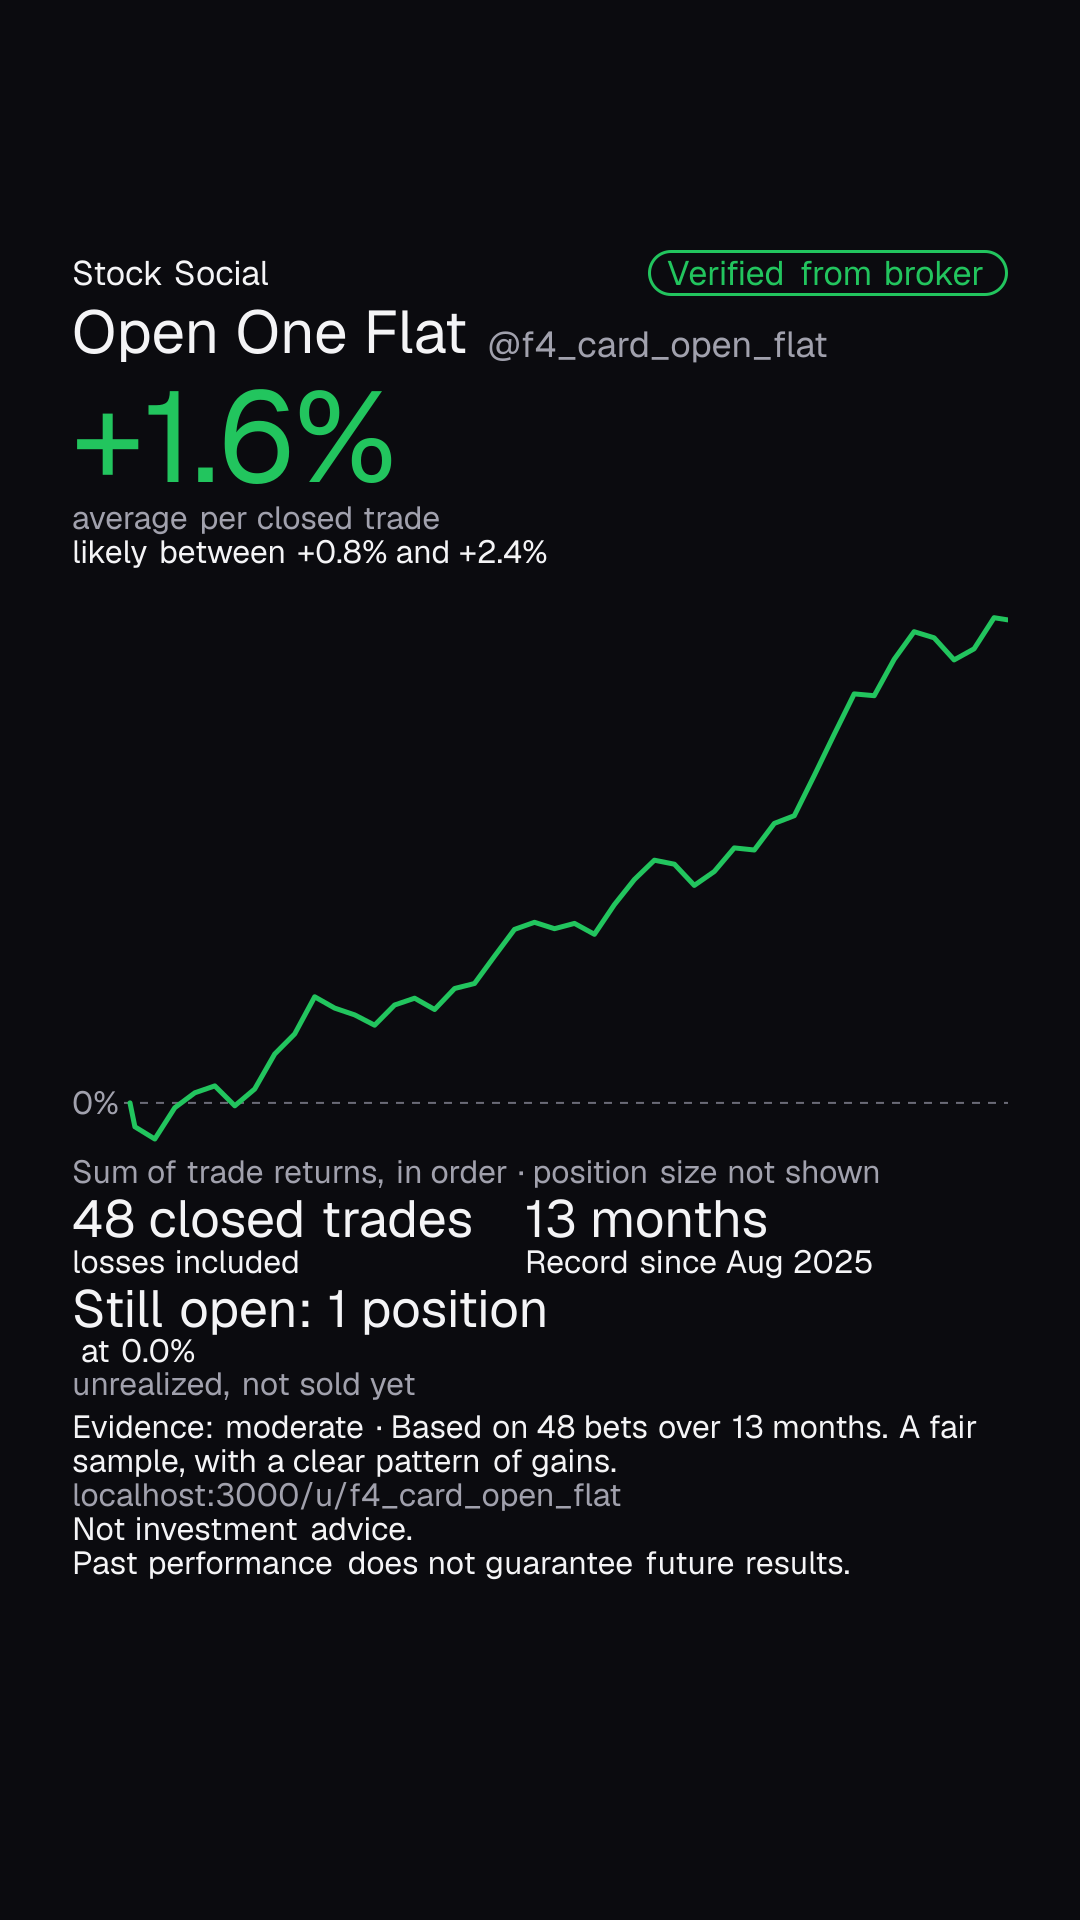
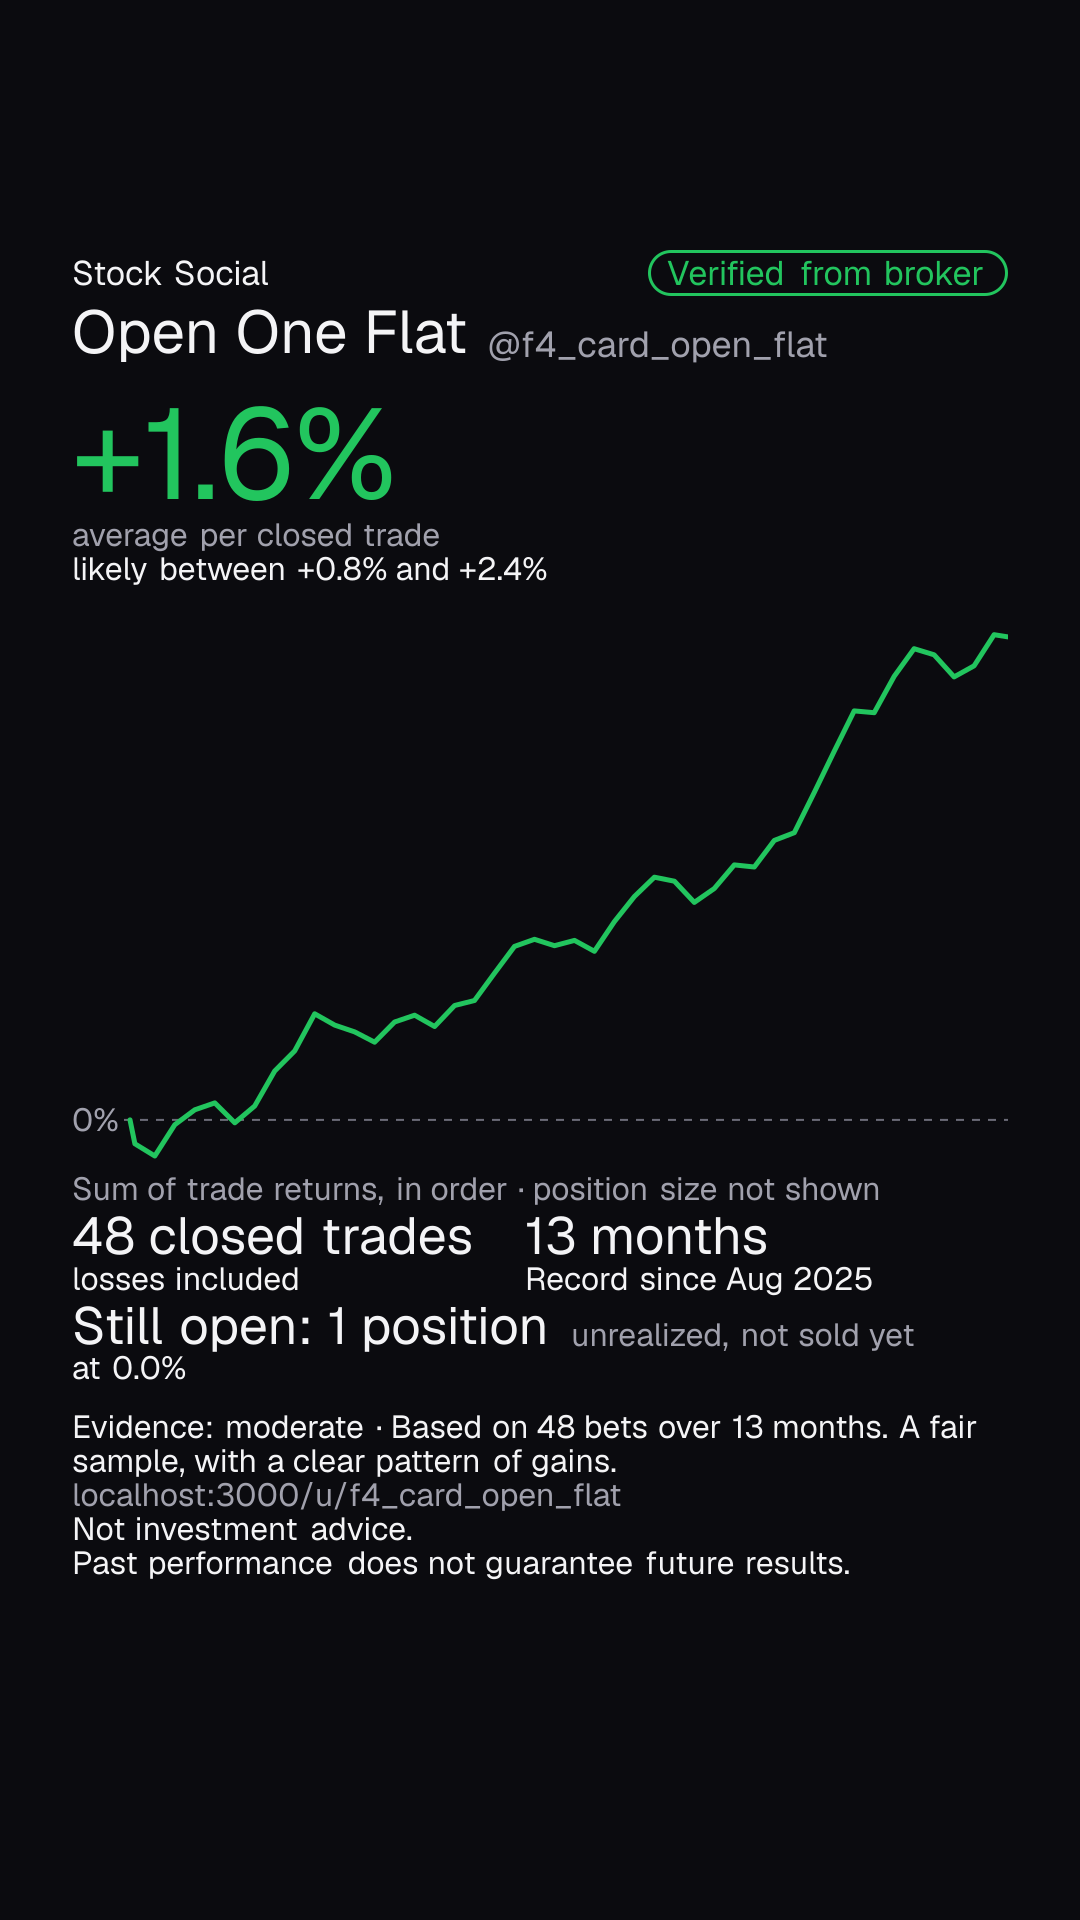
F-4: round-2 fixes (open block fits the worst case, handle-only names, unclamped width check) and records

diff --git a/app/u/[handle]/record-card-image.tsx b/app/u/[handle]/record-card-image.tsx
@@ -30,7 +30,8 @@ export function RecordCardImage({ m, disclaimer }: { m: CardModel; disclaimer: s
     <div style={{ ...row, alignItems: 'baseline', gap: 16, flex: 1, minWidth: 0, overflow: 'hidden' }}>
       {/* User test 2026-11-01: the @handle is the card's one unique identity (anyone can pick any display name), so it
           always shows in full; when the row is short only the display name gives way. */}
-      <span style={{ ...t(f.name), ...one, flexShrink: 1, minWidth: 0 }}>{m.name}</span>
+      {/* A trader with no display name shows the handle here: then it never truncates either (code review). */}
+      <span style={handleOnly ? { ...t(f.name), whiteSpace: 'nowrap', flexShrink: 0 } : { ...t(f.name), ...one, flexShrink: 1, minWidth: 0 }}>{m.name}</span>
       {!handleOnly && <span style={{ ...t(f.handle, C.muted), whiteSpace: 'nowrap', flexShrink: 0 }}>@{m.handle}</span>}
     </div>
   );
@@ -39,23 +40,33 @@ export function RecordCardImage({ m, disclaimer }: { m: CardModel; disclaimer: s
   const toneColor = (tone: 'up' | 'down' | 'flat') => (tone === 'up' ? C.up : tone === 'down' ? C.down : C.text);
   const lineColor = toneColor(m.headlineTone ?? 'flat'); // the line agrees with the headline it sums to
 
-  // F-6: "3 still open · 2 up, 1 down · lowest -8.0%, highest +12.1%", each percent in its own sign's color (the
+  // F-6: "3 open, unrealized · 2 up, 1 down · lowest -8.0%, highest +12.1%", each percent in its own sign's color (the
   // words carry the meaning; the color only repeats it). Never clipped: a held loser is never hidden.
   const o = m.open;
-  const spread = o && (o.low === o.high
-    ? [<span key="a" style={{ marginLeft: '0.28em' }}>at</span>, <span key="l" style={{ color: toneColor(o.lowTone), marginLeft: '0.28em' }}>{o.low}</span>]
-    : [<span key="a" style={{ marginLeft: '0.28em' }}>lowest</span>, <span key="l" style={{ color: toneColor(o.lowTone), marginLeft: '0.28em' }}>{o.low}</span>,
-      <span key="c">,</span>, <span key="b" style={{ marginLeft: '0.28em' }}>highest</span>, <span key="h" style={{ color: toneColor(o.highTone), marginLeft: '0.28em' }}>{o.high}</span>]);
-  const openRow = (size: number, short: boolean) => o && (
-    <div style={{ ...row, flexWrap: 'wrap', ...t(size), lineHeight: 1 }}>
-      <span>{[short ? o.shortTitle : '', o.split].filter(Boolean).join(' · ')}{short || o.split ? ' ·' : ''}</span>{spread}
-    </div>
-  );
+  // `lead`: whether words come before the spread on its row (no indent before "at 0.0%" when nothing does).
+  const gap = (on: boolean) => ({ marginLeft: on ? '0.28em' : 0 });
+  const spread = (lead: boolean) => o && (o.low === o.high
+    ? [<span key="a" style={gap(lead)}>at</span>, <span key="l" style={{ color: toneColor(o.lowTone), ...gap(true) }}>{o.low}</span>]
+    : [<span key="a" style={gap(lead)}>lowest</span>, <span key="l" style={{ color: toneColor(o.lowTone), ...gap(true) }}>{o.low}</span>,
+      <span key="c">,</span>, <span key="b" style={gap(true)}>highest</span>, <span key="h" style={{ color: toneColor(o.highTone), ...gap(true) }}>{o.high}</span>]);
+  const openRow = (size: number, short: boolean) => {
+    if (!o) return null;
+    const words = [short ? o.shortTitle : '', o.split].filter(Boolean).join(' · ');
+    return (
+      <div style={{ ...row, flexWrap: 'wrap', ...t(size), lineHeight: 1 }}>
+        {words && <span>{`${words} ·`}</span>}{spread(!!words)}
+      </div>
+    );
+  };
+  // The note sits on the title's row (it wraps under it only if the row is full), so the block is two rows high and
+  // the worst case (failed note, New record, 12 positions) keeps every row (UX test, round 2).
   const openBlock = o && (
     <div style={col}>
-      <span style={big(f.line)}>{o.title}</span>
+      <div style={{ ...row, alignItems: 'baseline', flexWrap: 'wrap', gap: 16 }}>
+        <span style={big(f.line)}>{o.title}</span>
+        <span style={{ ...t(f.body, C.muted), whiteSpace: 'nowrap' }}>{o.note}</span>
+      </div>
       {openRow(f.body, false)}
-      <span style={t(f.body, C.muted)}>{o.note}</span>
     </div>
   );
 

diff --git a/lib/bets.ts b/lib/bets.ts
@@ -29,7 +29,9 @@ export function betClusters(trades: BetInput[]): Bet[] {
   return bets;
 }
 
-export type ArithmeticRange = { low: number; mid: number; high: number; k: number };
+// `half`: the unclamped half-width (t · se), which the "too wide" check reads (code review: the -100% stop on the
+// printed low end must not make a wide record look narrow).
+export type ArithmeticRange = { low: number; mid: number; high: number; k: number; half: number };
 // mid = Σr / n (headline().avgReturn, over every trade); se = √(K/(K−1) · Σ_bets (S_b − n_b·mid)²) / n, the
 // cluster-robust standard error (bets, not trades, are independent); low/high = mid ∓ t(K−1)·se. se ≥ 0, so
 // low ≤ mid ≤ high always. A trade can't lose more than everything, so the low end stops at -100% (QA 2026-11-01:
@@ -42,6 +44,6 @@ export function arithmeticRange(trades: BetInput[]): ArithmeticRange | null {
   const mid = bets.reduce((a, b) => a + b.sum, 0) / n;
   const se = Math.sqrt((k / (k - 1)) * bets.reduce((a, b) => a + (b.sum - b.n * mid) ** 2, 0)) / n;
   const half = tCrit95(k - 1) * se;
-  const r = { low: Math.max(-1, mid - half), mid, high: mid + half, k };
+  const r = { low: Math.max(-1, mid - half), mid, high: mid + half, k, half };
   return [r.low, r.mid, r.high].every(Number.isFinite) ? r : null;
 }

diff --git a/lib/record-card.rework.test.ts b/lib/record-card.rework.test.ts
@@ -289,3 +289,12 @@ test('F-4 2026-11-01 (record length): the seeded demo record reads the same days
   const days = Number(evidenceLine(confidence(trades, new Date())).match(/, (\d+) days?\)/)![1]);
   assert.equal(card(trades, { now: new Date(), demo: true, state: 'none', verified: false }).periodLength, `${days} days`);
 });
+
+test('code review 2026-11-01: "too wide" reads the unclamped range, so the -100% stop never makes a wide record look narrow', () => {
+  // About -95% a trade with a half-width of ~12 points: clamped at -100% it would print ~8.5 points wide.
+  const r = record(31, 200, (i) => (i % 2 ? -0.83 : -0.99) + (i % 3 ? 0.04 : -0.04));
+  const e = cardEvidence(r, now);
+  assert.ok(e.perTrade!.low >= -1);
+  const unclampedHalf = e.perTrade!.high - headline(r).avgReturn; // the high end is never clamped
+  assert.equal(e.tier === 'too-early', unclampedHalf > 0.10, `half ${unclampedHalf.toFixed(3)} tier ${e.tier}`);
+});

diff --git a/lib/record-card.ts b/lib/record-card.ts
@@ -185,7 +185,7 @@ export function cardEvidence(trades: ConfidenceInput[], now: Date): Confidence {
   const c = confidence(trades, now);
   const r = arithmeticRange(trades);
   const perTrade = r && { low: r.low, mid: r.mid, high: r.high };
-  const tier: Tier = c.k < MIN_BETS || !perTrade || tooWide(perTrade) ? 'too-early' : tierFor(c.k, c.spanDays);
+  const tier: Tier = c.k < MIN_BETS || !r || tooWide({ low: r.mid - r.half, high: r.mid + r.half }) ? 'too-early' : tierFor(c.k, c.spanDays);
   const sign = trustSign({ perTrade });
   const edge = tier === 'too-early' ? null : sign === 'unclear' ? 'unclear' : sign;
   return { ...c, tier, perTrade, edge };

diff --git a/docs/features/logs/F-4/build-2026-11-01.md b/docs/features/logs/F-4/build-2026-11-01.md
@@ -62,6 +62,17 @@ each round changed, and the test results.
    - Code review #4 (an extra query per profile view, acceptable now), #7 (old tests read `chart.down`) and #8 (the F-5
      seam, decided) were not changed.
 
+3. **Round 2.**
+   - Business lead: compliance PASS, business PASS. Two items were recorded rather than built: the profile chart is
+     an open question in the feature file, and thousands separators in percentages ("+1007.8%") are a follow-up for
+     `pct()`, which is shared by every surface.
+   - UX lead: FAIL on one blocking defect. In open_tight's square and story the "unrealized, not sold yet" note was
+     clipped under the evidence line. Fixed: the note moved onto the open-positions title row (it wraps only if the
+     row is full), and "at 0.0%" lost its indent. Re-rendered: every row is visible in open_tight at all three sizes.
+   - Code review: no blocking finding. Fixed: a trader with no display name shows the handle at name size, and it
+     never truncates; "too wide" reads the unclamped half-width. Left as a hand-off (open question in the feature
+     file): the trade, month and compare pages still print `confidence()`'s range.
+
 ## Existing tests changed (only where a decision changed the rule)
 
 - `lib/confidence.test.ts`: the two trust-table tests use the 2026-10-31 table (under-5 row; "clear pattern of
@@ -93,7 +104,7 @@ each round changed, and the test results.
 | Check | Result |
 |---|---|
 | `npx tsc --noEmit` | exit 0 |
-| `npm test` (env exported) | 719 tests, 707 pass, 0 fail, 12 skipped |
+| `npm test` (env exported) | 720 tests, 708 pass, 0 fail, 12 skipped |
 | `BASE_REF=main node scripts/compliance.ts auto` | ok |
 | `node scripts/autopilot.ts guard origin/main` | ok |
 | `npm run build` | exit 0 |

diff --git a/docs/features/F-4-share-card.md b/docs/features/F-4-share-card.md
@@ -161,6 +161,12 @@ Each one testable; the pipeline writes a test for every line.
 ## Open questions
 - Later depth: which per-trade elements, and whether they appear on the record card or only on
   per-trade cards.
+- 2026-11-01 (business lead, user test): the profile chart still compounds ("Return if every trade were the same size")
+  while the card draws the running sum; whether the profile chart moves to the running sum is for the owner (F-6 or a
+  profile follow-up). The numbers never contradict: the card prints no end value.
+- 2026-11-01 (code review): the trade page, the month recap and the compare page still print `confidence()`'s
+  log-based range and tier; the profile and card now print `cardEvidence`. Moving `lib/trades.ts#confidence` onto
+  `arithmeticRange` (its owners' hand-off) makes every surface one answer.
 
 ## Rework notes
 - 2026-10-22: Owner wants the card to lead with chart, trade count and period; detail later.
